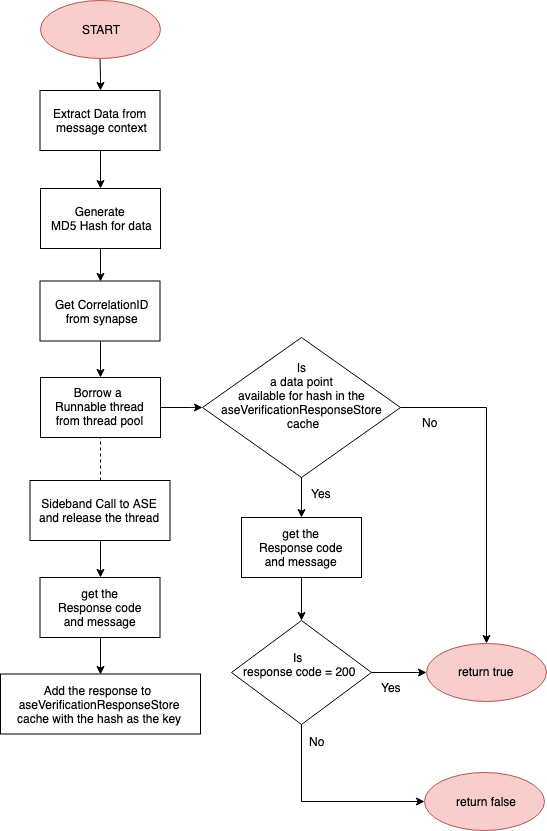
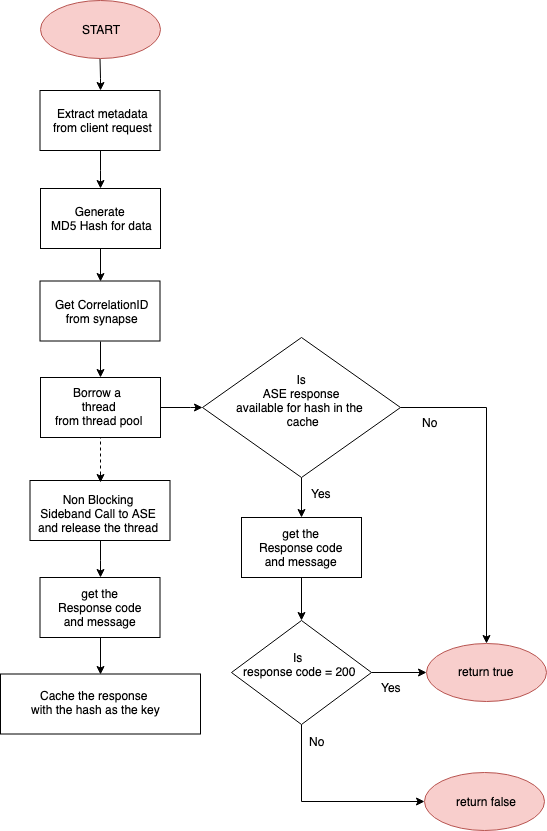
flow charts updated, defualt configurations changed, carbon.apimgt.verion added to import packages in pom

diff --git a/src/main/java/org/wso2/carbon/apimgt/securityenforcer/dto/AISecurityHandlerConfig.java b/src/main/java/org/wso2/carbon/apimgt/securityenforcer/dto/AISecurityHandlerConfig.java
@@ -164,8 +164,8 @@ public class AISecurityHandlerConfig {
 
     public static class StackObjectPoolConfig {
 
-        private Integer maxIdle = 1000;
-        private Integer initIdleCapacity = 200;
+        private Integer maxIdle = 100;
+        private Integer initIdleCapacity = 50;
 
         public Integer getMaxIdle() {
             return maxIdle;

diff --git a/DEVELOPER_GUIDE.md b/DEVELOPER_GUIDE.md
@@ -232,7 +232,7 @@ Check whether the API is listed as <API_NAME>_\<VERSION>.
    
 ## Configurations
 #### Bare minimum configurations
-Add the following configurations to the  <APIM_HOME>/repository/conf/api-manager.xml file under <APIManager> tag. If mode is not set, the default mode is set as async. If ModelCreationEndpoint configurations are not set, manual creation of ASE models will be needed.
+Add the following configurations to the  <APIM_HOME>/repository/conf/api-manager.xml file under \<APIManager> tag. If mode is not set, the default mode is set as async. If ModelCreationEndpoint configurations are not set, manual creation of ASE models will be needed.
 
 ```
     <PingAISecurityHandler>
@@ -250,10 +250,10 @@ Add the following configurations to the  <APIM_HOME>/repository/conf/api-manager
    ```
 
 ## Modes of Operation
-To integrate this feature to WSO2 API Manager, a custom handler is implemented with the handleRequest and handleResponse methods. For every request, there need to be two sideband calls to ASE. First one is to analyze the metadata (Endpoint: ASE/request). The second one is to pass the status of the overall request after connecting to the backend (EndPoint: ASE/response). Second sideband call is mainly for the learning mode of AI Engine.
+To integrate this feature to WSO2 API Manager, a custom handler is implemented with the handleRequest and handleResponse methods. For every request, WSO2 gateway will send two sideband calls to ASE. First one is to analyze the metadata (Endpoint: ASE/request). The second one is to pass the status of the overall request after connecting to the backend (EndPoint: ASE/response). Second sideband call is mainly for the learning mode of AI Engine.
 
 
-There are three modes of operation when implementing the feature. Depends on the requirement, the client can choose the mode.
+There are three modes of operation when implementing the extension.
 1. Sync Mode
 2. Async Mode
 3. Hybrid Mode
@@ -263,7 +263,7 @@ The difference with all these modes is only with the first sideband request. The
 ### Sync Mode
 In the sync mode, first sideband call is sent synchronously to the request dataflow. Depends on the ASE response, the handler will allow each request to connect the backend. 
 
-This is a thread blocking call and every request will wait until the ASE respond for the first sideband call.
+This is a thread blocking call and every request will wait until the ASE respond.
 
    **Total time  =~0.2ms + ASE Sideband call time**
 
@@ -379,8 +379,8 @@ Add the required configurations to the  <APIM_HOME>/repository/conf/api-manager.
            <KeepAliveTime>100</KeepAliveTime>
        </ThreadPoolExecutor>
        <StackObjectPool>
-           <MaxIdle>1000</MaxIdle>
-           <InitIdleCapacity>200</InitIdleCapacity>
+           <MaxIdle>100</MaxIdle>
+           <InitIdleCapacity>50</InitIdleCapacity>
        </StackObjectPool>
        <LimitTransportHeaders>
             <Header>HEADER_1</Header>
@@ -557,8 +557,8 @@ To change any password which we have encrypted already, follow the below steps:
 
 | Field  | input| DefaultValue | Description|
 | ------------- | ------------- | ------------- | ------------- |
-|MaxIdle|(Integer)|1000|Cap on the number of "sleeping" instances in the pool.|
-|InitIdleCapacity|(Integer)|200|Initial size of the pool (this specifies the size of the container, it does not cause the pool to be pre-populated.)|
+|MaxIdle|(Integer)|100|Cap on the number of "sleeping" instances in the pool.|
+|InitIdleCapacity|(Integer)|50|Initial size of the pool (this specifies the size of the container, it does not cause the pool to be pre-populated.)|
 
 #### LimitTransportHeaders
 
